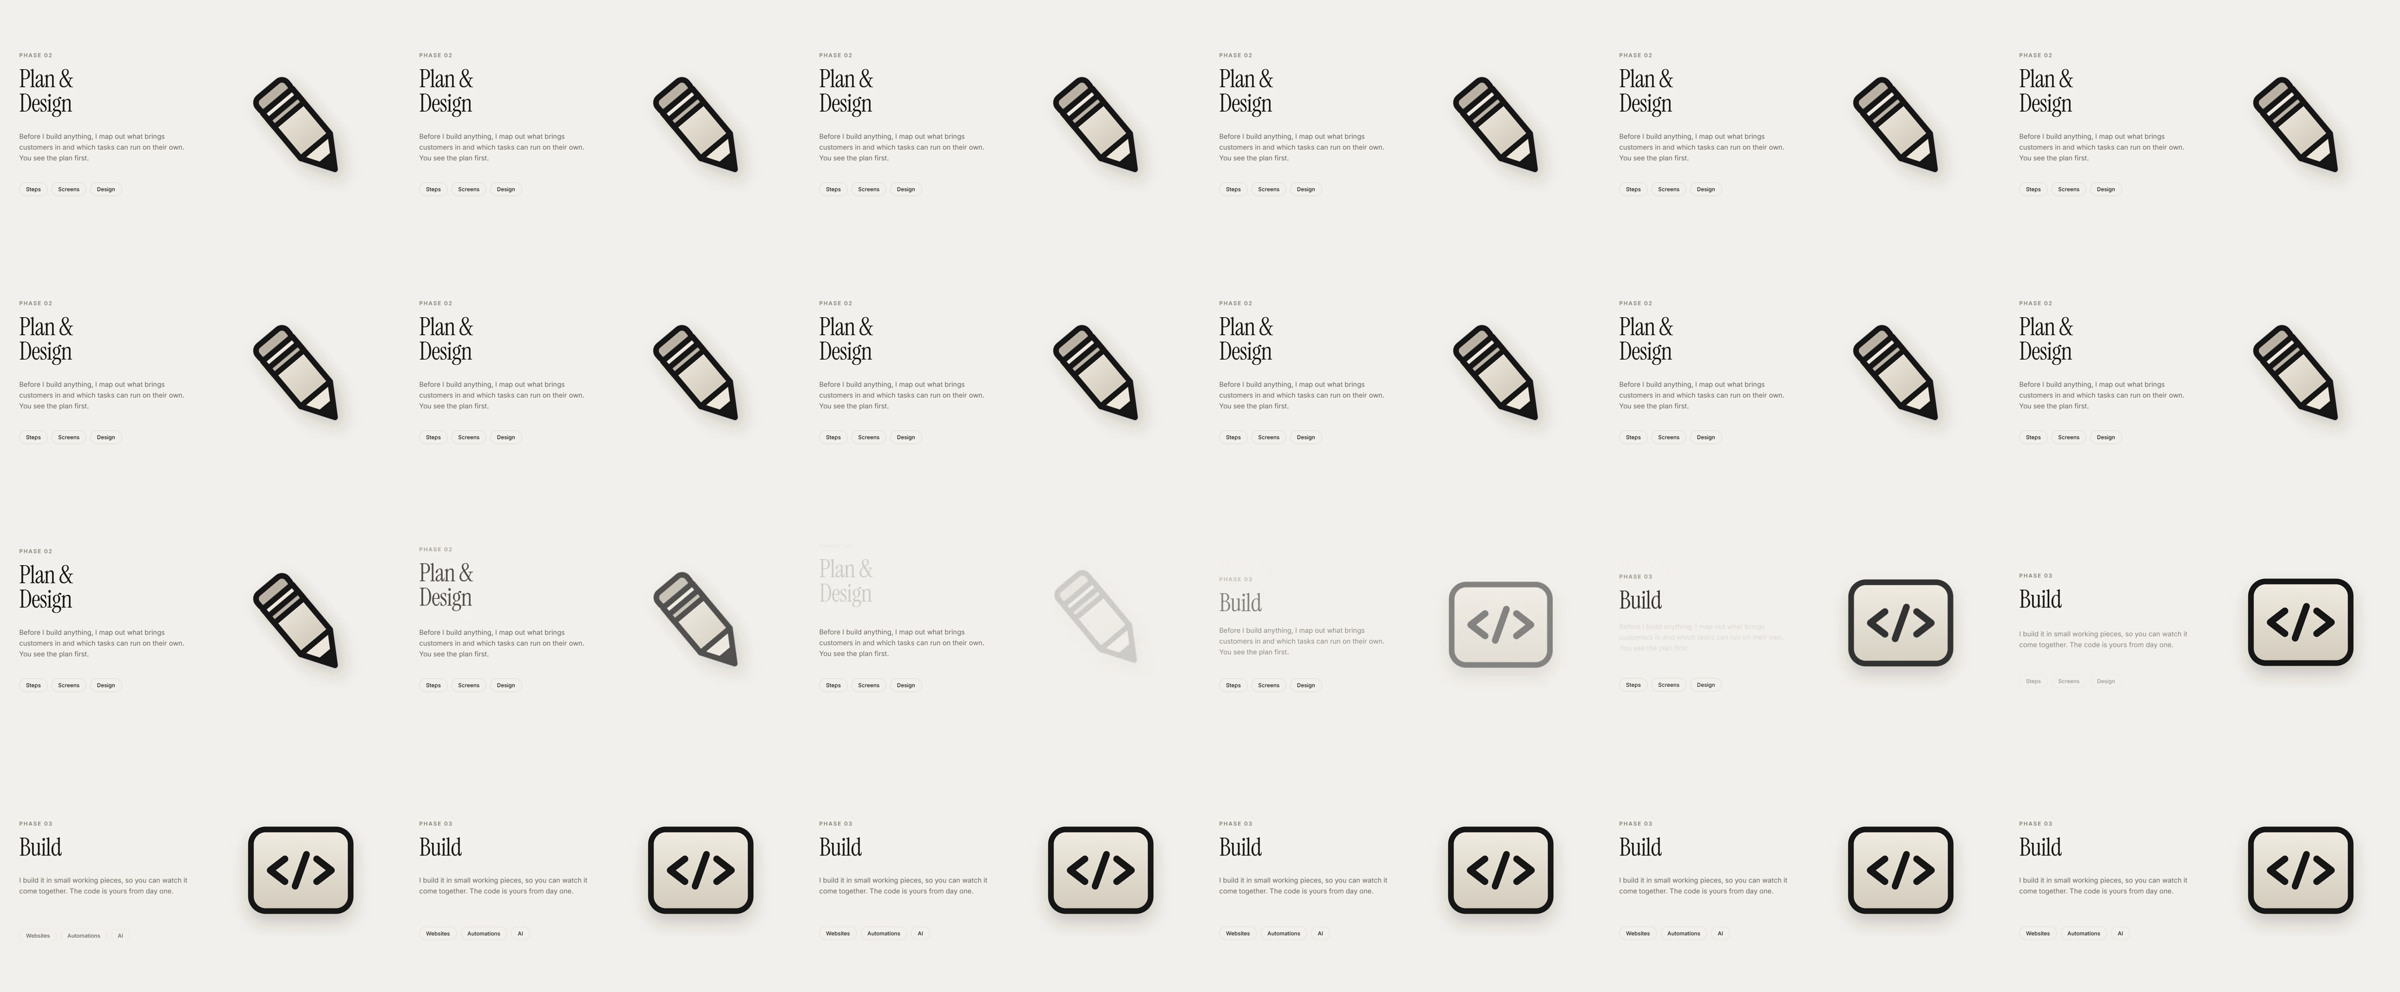
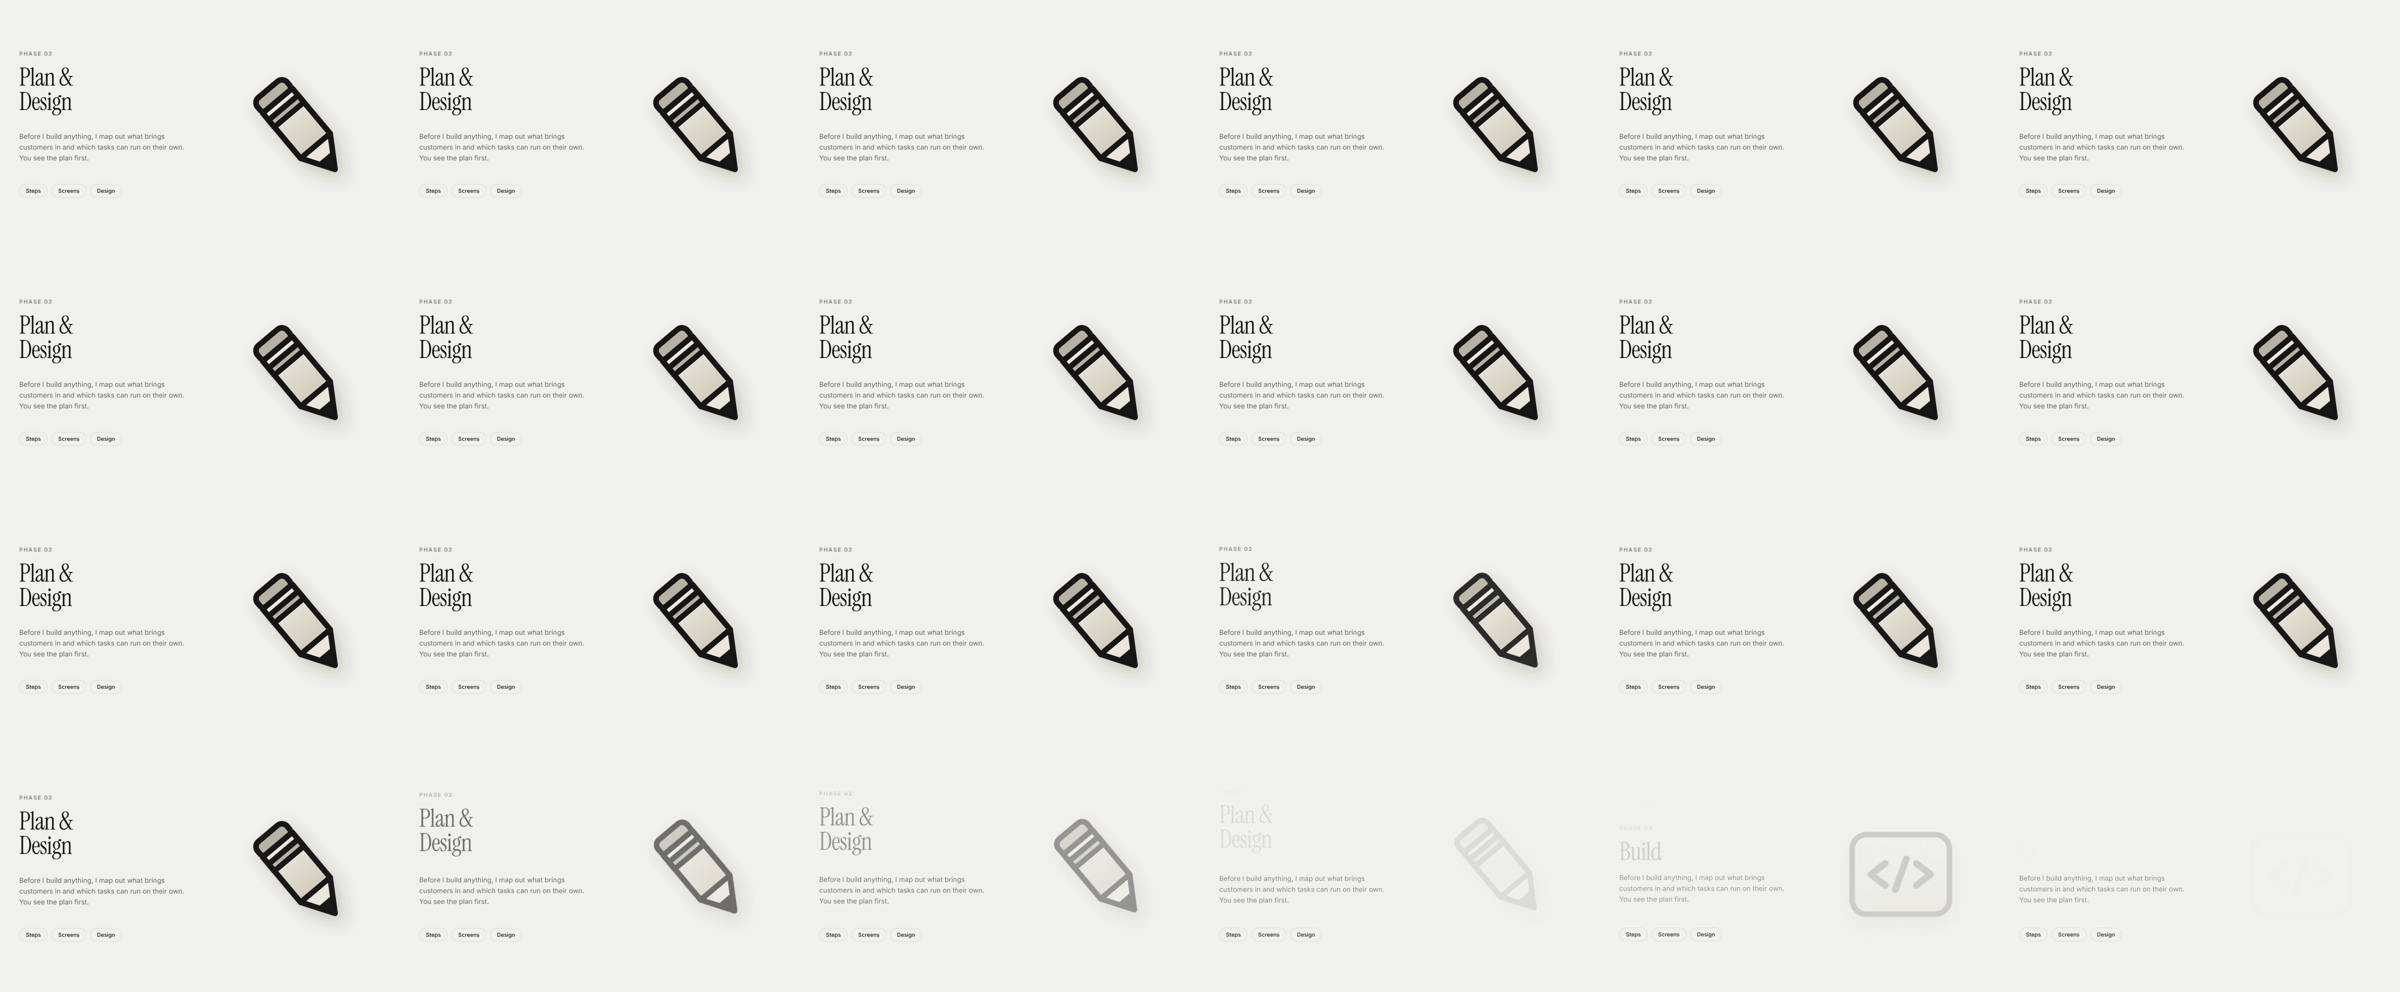
Process: feather = travel (no edge chop), tighter wave (no mismatched title/paragraph)

diff --git a/research/process-transition/score-kimi-r3.md b/research/process-transition/score-kimi-r3.md
@@ -1,0 +1,21 @@
+# Process transition score — kimi, round 3
+
+Scored from `Process.astro` (current: SLOTS/ART all `[c, 0.18]`, cubic ease-in exits / ease-out entrances, icon on the title slot, direction-aware settle) plus the three refreshed filmstrips and `midframes-desktop.png` (cells inspected at full resolution).
+
+| Axis | Score | Note |
+|---|---|---|
+| Continuity | 9/10 | Cubic easing turned the R2 dwell-at-zero into a pass-through: slot <10% opacity for ~1% of a step (verified in `vis()`: old gone by `prog³>0.9`, new >10% by `prog≈0.036`). Icon now shares the title slot — in the 44% cell title and code icon sit at the same ~55% grey. 0 overlap / 0 blank holds, within the owner's rules. |
+| Motion quality & easing | 9/10 | Accelerate-away / decelerate-in gives the swap a clean snap instead of the R2 sag; 18px travel + icon scale settle still read as one calm gesture. |
+| Timing | 8/10 | Fades at 0.18 are softer and read better on flicks. Unchanged: the 0.40→0.60 slot spread still stretches a full handoff on slow scrolls. |
+| Legibility while moving | 8/10 | Sampled anchor minimum is now ~45–55% (36%/44% cells), passing, not parked. The 52% cell still shows the incoming paragraph as a ~25% ghost under a full-black title. |
+| Landing & settle | 9.5/10 | Leftovers complete in the direction of travel; sub-20% nudges left alone, so it never pulls back against the user. All strips park cleanly; ends exit freely. |
+| Brand fit | 9/10 | Calm editorial roll-through, ink-on-cream; no blur, no collisions. |
+
+**Overall: 8.8/10** (was 8.5). Both R2 headline defects (title/icon dip, icon lag) are genuinely fixed.
+
+## Defects still visible
+1. **Mixed-phase contradiction at its worst right after the anchor lands.** 44% cell: full "Build" title + code icon beside the *old* "Before I build anything…" paragraph (~90%) and "Steps / Screens / Design" tags. Legal (different slots), but title and body disagree for ~0.2 of a step.
+2. **Ghost paragraph at 52%.** Incoming body at ~25% under a landed title reads as late, faint mush; on the slow-8fps strip one mid-handoff frame still catches title + icon both near-invisible (the u≈c instant).
+
+## Single best change within the rules
+Compress the slot spread: paragraph 0.50→0.45, tags 0.60→0.50 (head/art stay 0.40). Different slots may overlap in time — the owner only banned same-place overlap — and this halves the window where the new title sits next to the old paragraph (defect 1) and shortens the slow-scroll handoff (Timing), at the cost of a slightly less pronounced top-to-bottom wave. One-line change to `SLOTS`.

diff --git a/research/process-transition/score-gemini-r3.md b/research/process-transition/score-gemini-r3.md
@@ -1,0 +1,19 @@
+# Phase Transition R3 Score
+
+**1. Category Scores (out of 10):**
+- **Continuity: 9/10** – The velocity-matched cubic easing elegantly connects the motion across the 0% opacity handoff.
+- **Motion quality & easing: 10/10** – Accelerating away and decelerating in (mirrored curves) completely cures the visual "dwell".
+- **Timing: 9/10** – The softer 0.18 fade window and wave offsets keep the stage lively.
+- **Legibility while it moves: 8/10** – The rapid dip doesn't interrupt flow, but a hard clip mars the edges.
+- **Landing and settle: 10/10** – The 20% nudge threshold creates a flawless, frictionless scroll feel.
+- **Brand fit: 10/10** – The unified icon swap and typography remain excellent.
+
+**2. Overall Score:** 9.3/10
+
+**3. Defect visible in the frames:**
+The text is hard-sliced by the mask edge before it fully fades out. The moving parts travel 18px (`D_PX = 18`), but the `.slot`'s feathered padding is only 14px. Because the text moves 4px outside the mask's bounding box, it suffers a visible hard chop at the top/bottom while still at ~22% opacity.
+
+**4. Single best change:**
+Match the travel distance to the padding so the text smoothly reaches the clipping edge exactly as opacity hits zero:
+Change: `const D_PX = 18;`
+To: `const D_PX = 14;`
